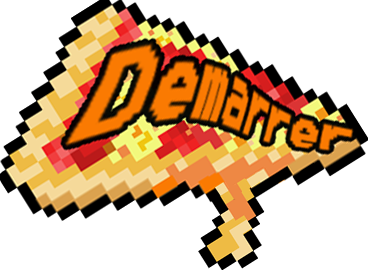
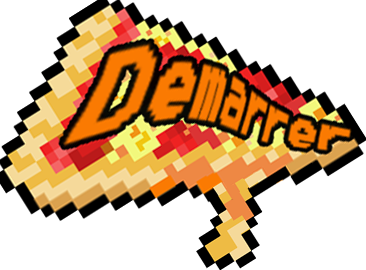
interface du menu, images replacées

diff --git a/src/gui/Buttons/StateButton.java b/src/gui/Buttons/StateButton.java
@@ -1,5 +1,6 @@
 package gui.Buttons;
 
+import gui.FileLoader;
 import org.newdawn.slick.Color;
 import org.newdawn.slick.*;
 import org.newdawn.slick.Graphics;
@@ -11,12 +12,15 @@ import org.newdawn.slick.state.StateBasedGame;
 import states.GameConfig;
 
 import java.awt.Font;
+import java.io.FileNotFoundException;
+import java.net.URISyntaxException;
 
 /**
  * Created by tic-tac on 14/02/17.
  */
 public class StateButton{
-    private final Image image;
+    private String imagePath;
+    private Image image;
     private int x;
     private int y;
     private boolean over;
@@ -24,19 +28,26 @@ public class StateButton{
     private Shape hitbox;
     private String action;
 
-    public StateButton(Image image, int x, int y, String text, String action) throws SlickException {
+    public StateButton(String imagePath, int x, int y, String text, String action) throws SlickException, FileNotFoundException, URISyntaxException {
         this.x=x;
         this.y=y;
         this.action=action;
         this.text=text;
-        this.image=image;
+        this.imagePath=imagePath;
+        this.image=FileLoader.getInterfaceImage(imagePath);
         this.hitbox = new RoundedRectangle(x,y,image.getWidth()+1,image.getHeight()+2,12);
         if(action.equals("start") | action.equals("quit")){
             System.out.println(this.image.getWidth()+"x"+this.image.getHeight());
         }
     }
 
-    public void render(Graphics g) {
+    public void render(Graphics g) throws FileNotFoundException, SlickException, URISyntaxException {
+        if(over && (action.equals("start") | action.equals("quit"))){
+            image=FileLoader.getInterfaceImage(imagePath+"_over");
+        }
+        else{
+            image=FileLoader.getInterfaceImage(imagePath);
+        }
         image.draw(x,y);
         g.setColor(Color.white);
         if(text!=null) {

diff --git a/src/gui/ButtonsGroup.java b/src/gui/ButtonsGroup.java
@@ -36,14 +36,14 @@ public class ButtonsGroup {
 		config=GameConfig.getInstance(game);
 		int winWidth=container.getWidth();
 		int winHeight=container.getHeight();
-		menuButtons.add(new StateButton(FileLoader.getImage("interface/demarrer.png"), (int)(winWidth*0.48),(int)(winHeight*0.4),null, "start"));
-		menuButtons.add(new StateButton(FileLoader.getImage("interface/quitter.png"), (int)(winWidth*0.65),(int)(winHeight*0.1),null, "quit"));
-		mainButtons.add(new StateButton(FileLoader.getImage("interface/boutonOrange.png"),winWidth-275,winHeight-78, "Menu principal", "menu"));
-		waveButtons.add(new StateButton(FileLoader.getImage("interface/boutonOrange.png"),winWidth-275,winHeight-78, "Menu principal", "menu"));
-		mainButtons.add(new StateButton(FileLoader.getImage("interface/boutonOrange.png"), winWidth-275, winHeight-156, "Lancer la vague", "wave"));
-		mainButtons.add(new StateButton(FileLoader.getImage("interface/boutonOrange.png"), winWidth-275, winHeight-234, "Tourelles/Ennemis", "turret"));
+		menuButtons.add(new StateButton("demarrer", (int)(winWidth*0.48),(int)(winHeight*0.4),null, "start"));
+		menuButtons.add(new StateButton("quitter", (int)(winWidth*0.65),(int)(winHeight*0.1),null, "quit"));
+		mainButtons.add(new StateButton("boutonOrange",winWidth-275,winHeight-78, "Menu principal", "menu"));
+		waveButtons.add(new StateButton("boutonOrange",winWidth-275,winHeight-78, "Menu principal", "menu"));
+		mainButtons.add(new StateButton("boutonOrange", winWidth-275, winHeight-156, "Lancer la vague", "wave"));
+		mainButtons.add(new StateButton("boutonOrange", winWidth-275, winHeight-234, "Tourelles/Ennemis", "turret"));
 	}
-	public void render(Graphics g){
+	public void render(Graphics g) throws FileNotFoundException, SlickException, URISyntaxException {
 		for(StateButton b : buttons){
 			b.render(g);
 		}

diff --git a/src/gui/FileLoader.java b/src/gui/FileLoader.java
@@ -14,10 +14,13 @@ public abstract class FileLoader {
     private static String slash = File.separator;
 
     public static Image getImage(String resource) throws URISyntaxException, FileNotFoundException, SlickException {
-        return new Image(Thread.currentThread().getContextClassLoader().getResourceAsStream("resources" + slash +resource), resource, false);
+        return new Image(Thread.currentThread().getContextClassLoader().getResourceAsStream("resources" + slash +resource+".png"), resource, false);
     }
     public  static Image getSpriteImage(String resource) throws URISyntaxException, FileNotFoundException, SlickException {
         return new Image(Thread.currentThread().getContextClassLoader().getResourceAsStream("resources" + slash + "sprites" + slash + resource), resource, false);
+    }
+    public static Image getInterfaceImage(String resource) throws URISyntaxException, FileNotFoundException, SlickException {
+        return new Image(Thread.currentThread().getContextClassLoader().getResourceAsStream("resources" + slash + "interface" + slash + resource+".png"), resource, false);
     }
     public static InputStream getInputStream(String file){
         return Thread.currentThread().getContextClassLoader().getResourceAsStream("resources"+slash+file);

diff --git a/src/maps/Map.java b/src/maps/Map.java
@@ -1,17 +1,12 @@
 package maps;
 
-import gui.Buttons.TurretButton;
 import org.newdawn.slick.Graphics;
 import org.newdawn.slick.SlickException;
-import org.newdawn.slick.gui.GUIContext;
 import org.newdawn.slick.state.StateBasedGame;
 import states.GameConfig;
 
-import java.util.ArrayList;
 import java.util.LinkedList;
 
-
-//TODO: Méthode plus légit(moins dépendante de slick) pour écouter les inputs (Jpanels, mouselisteners, canvas...)
 /**
  * Created by tic-tac on 15/02/17.
  */
@@ -89,8 +84,8 @@ public class Map {
 	
     public LinkedList<Vec> computePath(){
     			int[][] currentMap = this.toMatrix();
-    			LinkedList<int[]> mainList = new LinkedList<int[]>();
-    			LinkedList<int[]> untestedList = new LinkedList<int[]>();
+    			LinkedList<int[]> mainList = new LinkedList<>();
+    			LinkedList<int[]> untestedList = new LinkedList<>();
     			int n=0; //cost
     			int[] origin = new int[] {(this.spawn.getX()-1)/48, (this.spawn.getY()-1)/48, n}; //division to convert in integer coordinates
     			int[] end = new int[] {(this.posBase.getX()-1)/48, (this.posBase.getY()-1)/48};

diff --git a/src/states/MenuState.java b/src/states/MenuState.java
@@ -58,7 +58,7 @@ public class MenuState extends BasicGameState {
         config=GameConfig.getInstance(stateBasedGame);
         buttonsGroup=config.getButtonsGroup();
         try {
-            backgroundImage=FileLoader.getImage("interface/bgi.png");
+            backgroundImage=FileLoader.getImage("interface/bgi");
             piz=new SpriteSheet(FileLoader.getSpriteImage("Piz.png"), 256,256);
             buttonsGroup.init(stateBasedGame, gameContainer);
         } catch (URISyntaxException | IOException e) {
@@ -77,7 +77,13 @@ public class MenuState extends BasicGameState {
     @Override
     public void render(GameContainer gc, StateBasedGame sbg, Graphics g) throws SlickException {
         backgroundImage.draw();
-        buttonsGroup.render(g);
+        try {
+            buttonsGroup.render(g);
+        } catch (FileNotFoundException e) {
+            e.printStackTrace();
+        } catch (URISyntaxException e) {
+            e.printStackTrace();
+        }
         g.setLineWidth(5);
         g.setColor(Color.white);
         g.drawString("X:"+ x +"\nY:"+ y,0,winHeight-35);

diff --git a/src/states/MainGameState.java b/src/states/MainGameState.java
@@ -102,7 +102,13 @@ public class MainGameState extends BasicGameState {
 
         config.getMap().render(g);
         config.getTurretMenu().render(g);
-        config.getButtonsGroup().render(g);
+        try {
+            config.getButtonsGroup().render(g);
+        } catch (FileNotFoundException e) {
+            e.printStackTrace();
+        } catch (URISyntaxException e) {
+            e.printStackTrace();
+        }
         /* //Dav test
         g.drawString("Number of enemies alive : "+wave.aliveEnemies.size(), 3, 20);
         g.drawString("HP : "+config.getMap().baseHP, 3, 40);

diff --git a/src/states/WaveState.java b/src/states/WaveState.java
@@ -83,7 +83,13 @@ public class WaveState extends BasicGameState {
 
         config.getMap().render(g);
         config.getTurretMenu().render(g);
-        config.getButtonsGroup().render(g);
+        try {
+            config.getButtonsGroup().render(g);
+        } catch (FileNotFoundException e) {
+            e.printStackTrace();
+        } catch (URISyntaxException e) {
+            e.printStackTrace();
+        }
 
   /*  //Dav test
     g.drawString("Number of enemies alive : "+wave.aliveEnemies.size(), 3, 20);

diff --git a/src/maps/Case.java b/src/maps/Case.java
@@ -1,11 +1,12 @@
 package maps;
 
-import obj.Displayable;
 import obj.Enemy;
 import obj.Turret;
-import org.newdawn.slick.*;
+import org.newdawn.slick.Color;
+import org.newdawn.slick.Graphics;
+import org.newdawn.slick.Image;
+import org.newdawn.slick.SlickException;
 import org.newdawn.slick.geom.Rectangle;
-import org.newdawn.slick.gui.MouseOverArea;
 import org.newdawn.slick.state.StateBasedGame;
 import states.GameConfig;
 

diff --git a/src/Main.java b/src/Main.java
@@ -1,7 +1,5 @@
-import gui.FileLoader;
 import org.newdawn.slick.AppGameContainer;
 import org.newdawn.slick.Input;
-import org.newdawn.slick.Music;
 import org.newdawn.slick.SlickException;
 import org.newdawn.slick.state.StateBasedGame;
 import states.GameStates;
